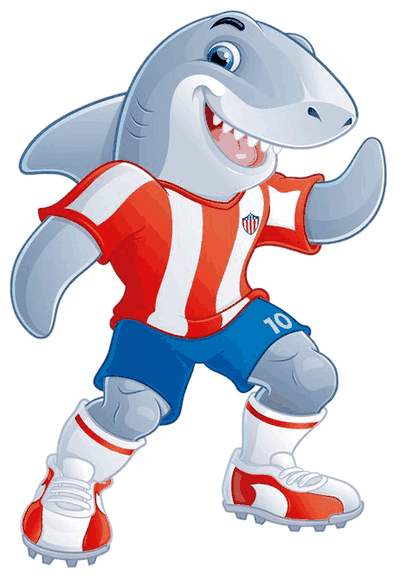
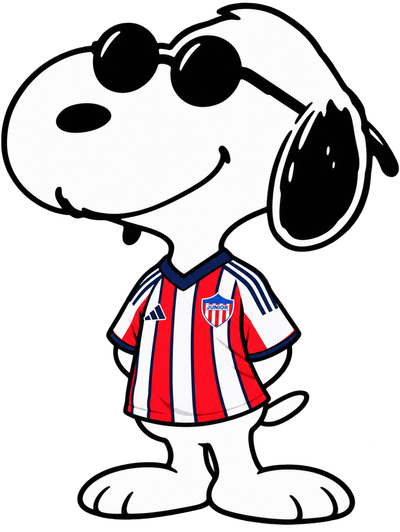
Cambiar la mascota del tiburón por Snoopy, la mascota oficial del evento
Snoopy con lentes de sol y camiseta del Junior reemplaza al tiburón en
la sección de convocatoria, con un texto nuevo anunciando que ya está
listo para el partido.

diff --git a/index.html b/index.html
@@ -165,14 +165,14 @@
         <div class="mascota-sombra" aria-hidden="true"></div>
         <img
           src="mascota-sinfondo.png"
-          alt="Tiburón mascota del equipo, vestido con camiseta deportiva a rayas y pantaloneta"
+          alt="Snoopy con lentes de sol y camiseta deportiva a rayas, la mascota del equipo"
           class="mascota-img"
           loading="lazy"
           decoding="async"
           width="400"
-          height="579"
+          height="532"
           onerror="this.closest('.mascota').style.display='none'">
-        <p class="mascota-tag">Mascota oficial del equipo</p>
+        <p class="mascota-tag">🕶 ¡Snoopy ya está listo para el partido!</p>
       </div>
     </div>
   </section>
